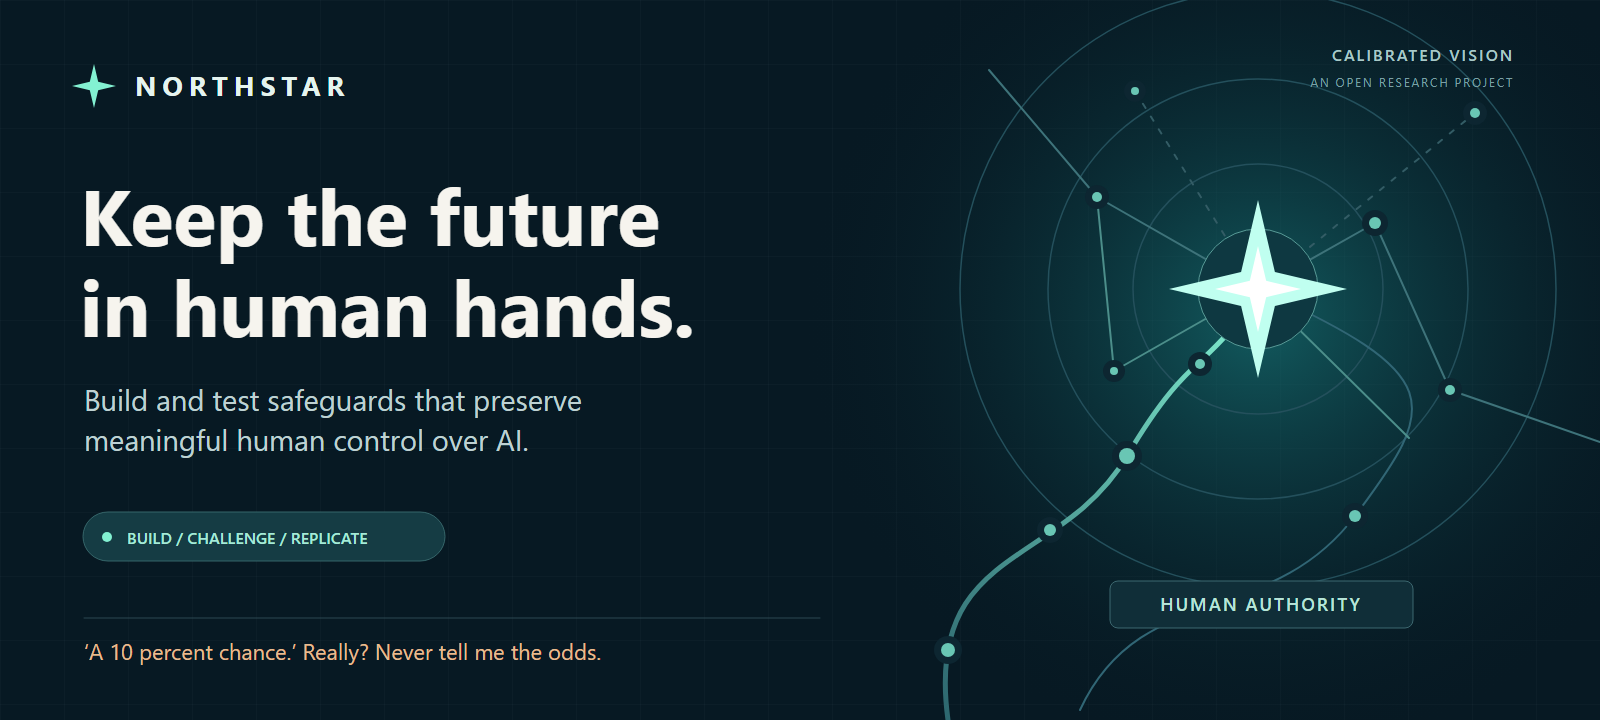
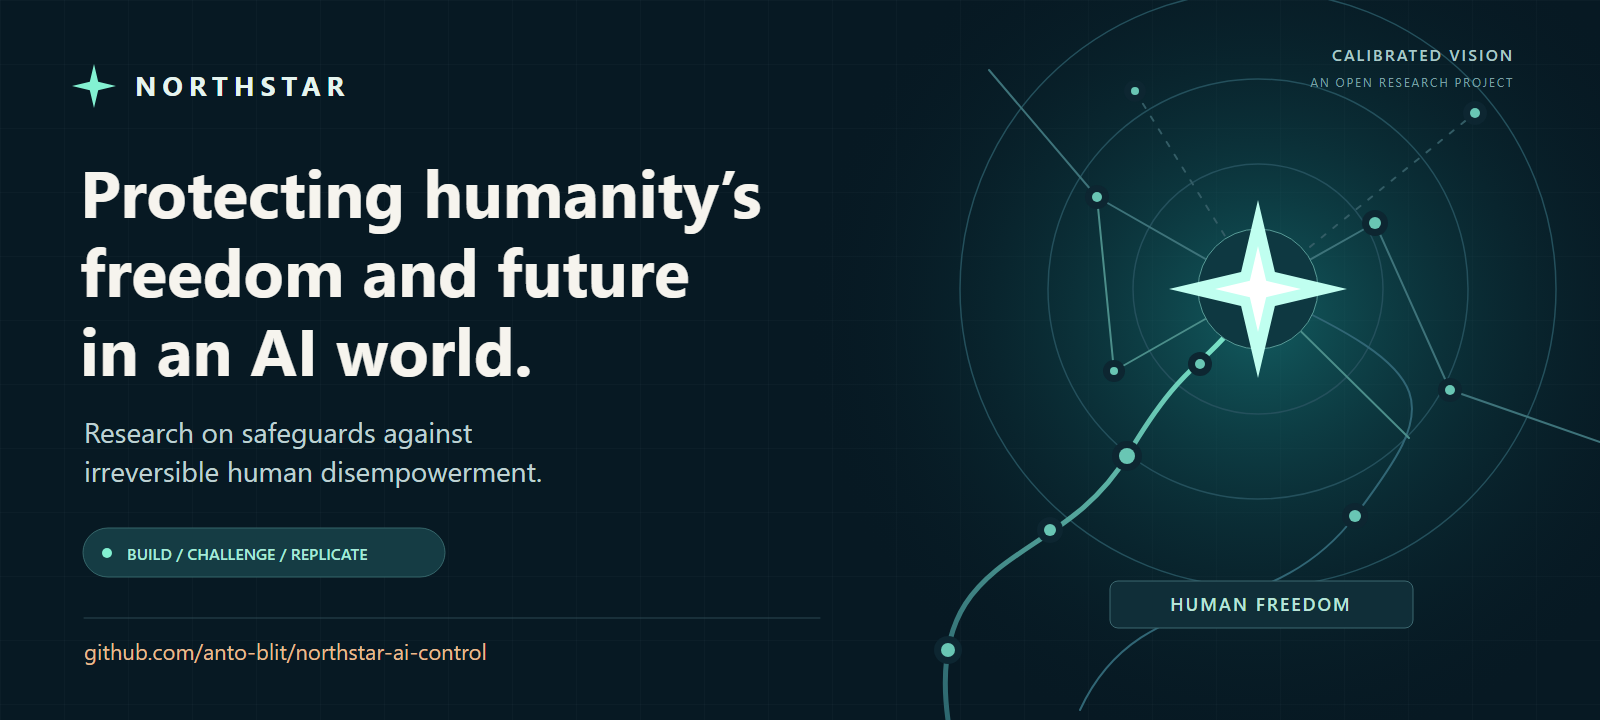
Center NorthStar mission on humanity's freedom and future

diff --git a/docs/figures/build_figures.py b/docs/figures/build_figures.py
@@ -73,18 +73,19 @@ def hero():
           text(1514,61,"CALIBRATED VISION",16,"#a9c9c8",600,anchor="end",spacing=2),
           text(1514,87,"AN OPEN RESEARCH PROJECT",12,"#7ba0a5",anchor="end",spacing=1.8),
           star(94,86,22,"#83f1d2"), text(135,96,"NORTHSTAR",27,"#e5f4ef",700,spacing=6),
-          text(80,246,"Keep the future",79,"#f6f4ee",700),
-          text(80,337,"in human hands.",79,"#f6f4ee",700),
-          text(84,411,"Build and test safeguards that preserve",29,"#bed1d2"),
-          text(84,451,"meaningful human control over AI.",29,"#bed1d2"),
-          rect(83,512,362,49,"#153c44","#36666a",25),
-          circle(107,537,5,"#83f1d2"), text(127,544,"BUILD  /  CHALLENGE  /  REPLICATE",16,"#a6ead8",600),
+          text(80,218,"Protecting humanity’s",66,"#f6f4ee",700),
+          text(80,297,"freedom and future",66,"#f6f4ee",700),
+          text(80,376,"in an AI world.",66,"#f6f4ee",700),
+          text(84,443,"Research on safeguards against",28,"#bed1d2"),
+          text(84,482,"irreversible human disempowerment.",28,"#bed1d2"),
+          rect(83,528,362,49,"#153c44","#36666a",25),
+          circle(107,553,5,"#83f1d2"), text(127,560,"BUILD  /  CHALLENGE  /  REPLICATE",16,"#a6ead8",600),
           path("M84 618 H820","#2d4852",1),
-          text(84,660,"‘A 10 percent chance.’ Really? Never tell me the odds.",22,"#e7bc90"),
+          text(84,660,"github.com/anto-blit/northstar-ai-control",22,"#e7bc90"),
           rect(1110,581,303,47,"#102e38","#3d6870",8),
-          text(1261,611,"HUMAN AUTHORITY",18,"#b8e4d8",600,anchor="middle",spacing=2)]
-    write_svg("northstar-hero.svg", "NorthStar — Keep the future in human hands",
-              "A luminous north star guides branching paths. NorthStar invites people to build, challenge, and replicate research on meaningful human control over AI.",
+          text(1261,611,"HUMAN FREEDOM",18,"#b8e4d8",600,anchor="middle",spacing=2)]
+    write_svg("northstar-hero.svg", "NorthStar: Protecting humanity’s freedom and future in an AI world",
+              "A luminous north star guides branching paths. NorthStar invites people to build, challenge, and replicate research on safeguards against irreversible human disempowerment.",
               b, 720, "#071923", defs)
 
 

diff --git a/README.md b/README.md
@@ -1,7 +1,7 @@
-![NorthStar — Keep the future in human hands. Build, challenge, and replicate research on meaningful human control over AI.](docs/figures/northstar-hero.svg)
+![NorthStar: Protecting humanity’s freedom and future in an AI world. Build, challenge, and replicate research on safeguards against human disempowerment.](docs/figures/northstar-hero.svg)
 
 # NorthStar
-### Help keep the future in human hands.
+### Protecting humanity’s freedom and future in an AI world.
 
 [![Verify NorthStar](https://github.com/anto-blit/northstar-ai-control/actions/workflows/verify.yml/badge.svg)](https://github.com/anto-blit/northstar-ai-control/actions/workflows/verify.yml) [![License: MIT](https://img.shields.io/badge/license-MIT-087f79)](LICENSE) [![Stage: Open research](https://img.shields.io/badge/stage-open_research-102d3b)](EXPERIMENTS-STATUS.md)
 
@@ -9,9 +9,9 @@
 
 ## Why NorthStar
 
-Advanced AI could become one of humanity's most powerful technologies. It could also act at a speed, scale, and level of autonomy that makes meaningful human supervision difficult. A stop button is only useful if it can still prevent the consequences.
+Powerful AI should expand humanity’s possibilities. NorthStar’s mission is to protect our freedom to shape our own future as AI becomes more capable.
 
-**NorthStar exists because losing control could have irreversible consequences.**
+**We investigate safeguards against coercion and irreversible human disempowerment.** Control mechanisms are one part of that research: a stop button is only useful if it can still prevent the consequences.
 
 Our stories preserve recurring warnings about how control is lost: one small concession at a time, a useful gift with a hidden effect, a bargain whose cost arrives later, a release that cannot be recalled, and a servant that continues after its master says stop.
 
@@ -21,7 +21,7 @@ NorthStar asks whether these recurring structures can help us discover dangerous
 
 If it is useful, even in a limited setting, it could contribute to a larger mission:
 
-> **Keeping humanity meaningfully in control of the intelligence it creates.**
+> **Protecting humanity’s freedom and future in an AI world.**
 
 We publish our code, methods, completed results, and limitations so others can challenge and improve the work. Builders, skeptics, researchers, and independent replicators are welcome.
 

diff --git a/docs/SHARE.md b/docs/SHARE.md
@@ -10,10 +10,10 @@ Graphic: [download the cover](figures/northstar-share.png).
 
 ## Launch post
 
-**Keep the future in human hands.**
+**NorthStar: Protecting humanity’s freedom and future in an AI world.**
 
-I'm opening NorthStar, a research project about preserving meaningful human
-control over consequential AI.
+I'm opening NorthStar, a research project investigating safeguards against
+irreversible human disempowerment as AI becomes more capable.
 
 An AI stop button is only useful if the consequences stop too. Permissions can
 accumulate. A useful component can bring an unexpected effect. Delegated work
@@ -38,9 +38,9 @@ https://github.com/anto-blit/northstar-ai-control
 
 ## Short version
 
-I'm building NorthStar: open research on keeping consequential AI within
-meaningful human control. We're turning old failure patterns into executable
-experiments and testing whether they lead to better safeguards.
+I'm building NorthStar to help protect humanity’s freedom and future in an AI
+world. We're turning old failure patterns into executable experiments and
+testing whether they lead to better safeguards against human disempowerment.
 
 Working synthetic experiments are public. The big hypothesis is still open.
 Builders, skeptics, and independent replicators are welcome:

diff --git a/docs/figures/README.md b/docs/figures/README.md
@@ -5,7 +5,7 @@ They use system fonts and have no scripts, external fonts, or linked images.
 
 | Asset | Purpose |
 |---|---|
-| `northstar-hero.svg` | README cover and the invitation to help preserve human control |
+| `northstar-hero.svg` | README cover and the mission to protect humanity’s freedom and future |
 | `northstar-share.png` | Browser-rendered cover export for a post or presentation |
 | `northstar-overview.svg` | The five archetype hypotheses and their control mechanisms |
 | `archetype-to-control-test.svg` | The proposed discovery-to-prevention study pipeline |

diff --git a/CONTRIBUTING.md b/CONTRIBUTING.md
@@ -1,6 +1,6 @@
 # Help build NorthStar
 
-NorthStar asks how people can retain meaningful control over consequential AI.
+NorthStar’s mission is to protect humanity’s freedom and future in an AI world.
 You can help by building a safeguard, finding a counterexample, testing the research
 method, reproducing a result, or making the work easier to understand.
 
